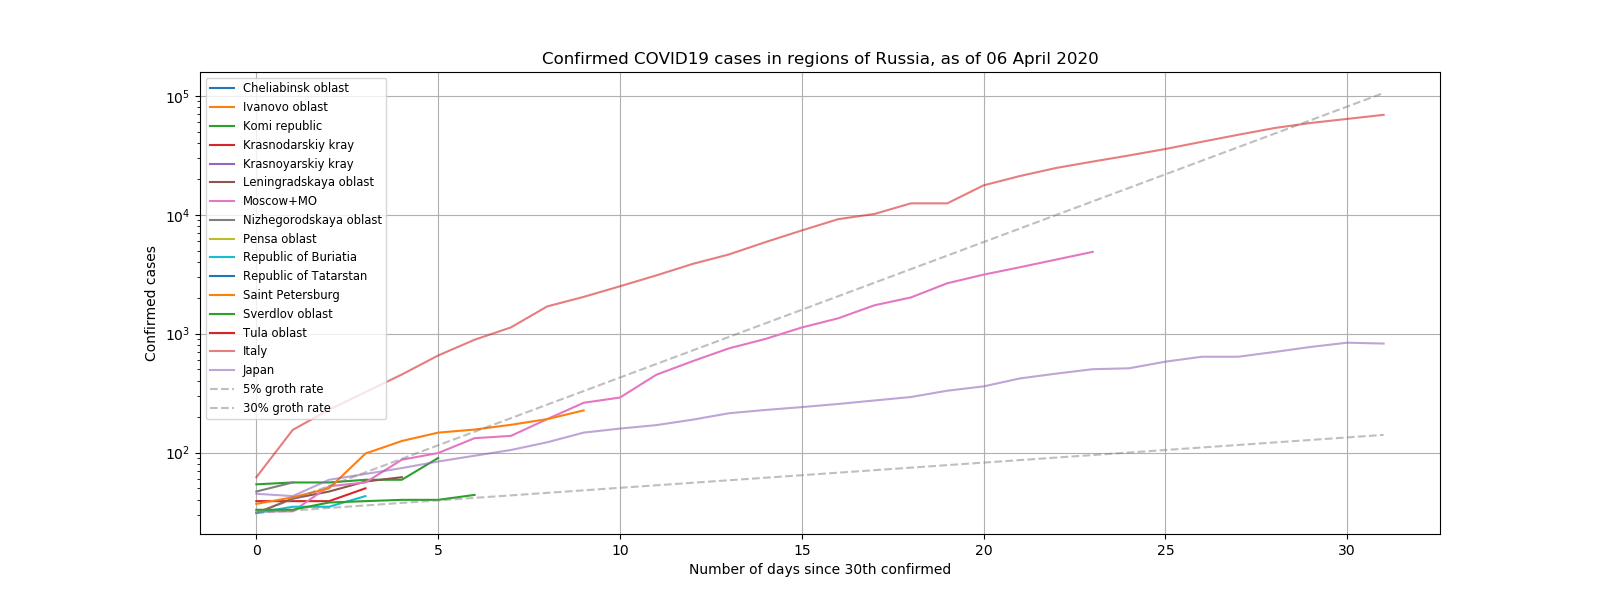
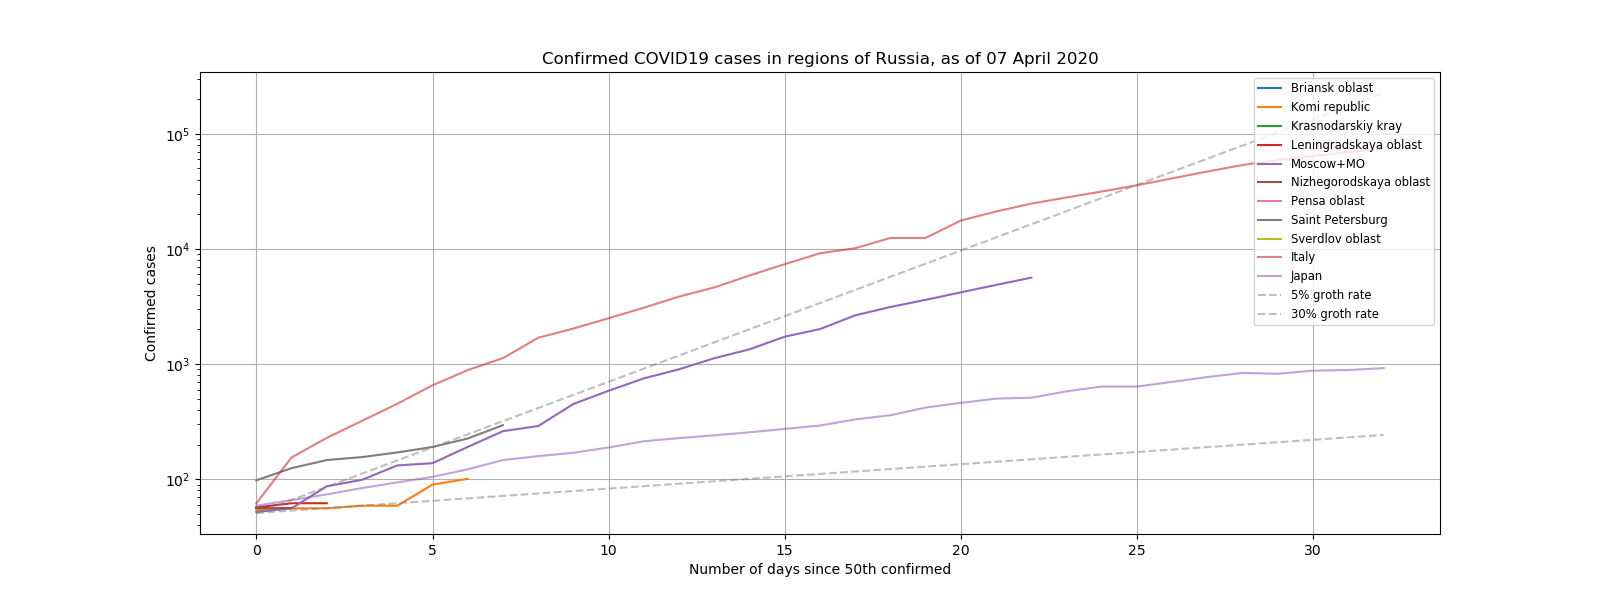
Update plots

diff --git a/python3/src/covid19ru/plot.py b/python3/src/covid19ru/plot.py
@@ -33,7 +33,7 @@ def timelines_preprocess():
   del tls[('Moscow oblast','Russia')]
   return tls
 
-def plot(confirmed_min_threshold=30, show:bool=False,
+def plot(confirmed_min_threshold=50, show:bool=False,
          save_name:Optional[str]=None, labels_in_russian:bool=False)->None:
   plt.figure(figsize=(16, 6))
   plt.yscale('log')
@@ -111,7 +111,7 @@ def plot(confirmed_min_threshold=30, show:bool=False,
   fontP.set_size('small')
 
   plt.grid(True)
-  plt.legend(loc='upper left', prop=fontP)
+  plt.legend(loc='upper right', prop=fontP)
 
   # handles, labels = plt.gca().get_legend_handles_labels()
   # # sort both labels and handles by labels
